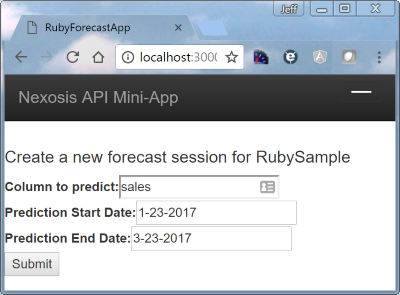
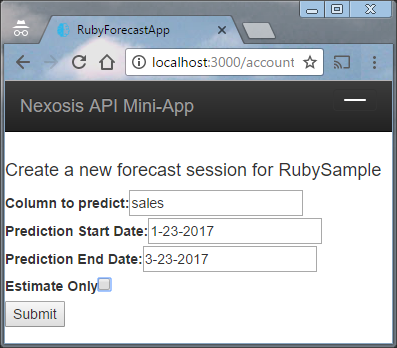
updated docs with estimation. fixed estimate bug

diff --git a/ruby-sample/ruby_forecast_app/app/controllers/account_controller.rb b/ruby-sample/ruby_forecast_app/app/controllers/account_controller.rb
@@ -53,7 +53,7 @@ class AccountController < ApplicationController
 		params.require(:target_column)
 		params.require(:start_date)
 		params.require(:end_date)
-		params.require(:is_estimate)
+		params.permit(:is_estimate)
 		client = ApiClient.new(Rails.application.secrets.api_key)
 		estimate_only = params["is_estimate"] == "on" ? true : false
 		begin
@@ -75,9 +75,10 @@ class AccountController < ApplicationController
 		params.require(:start_date)
 		params.require(:end_date)
 		params.require(:event_name)
-		params.require(:is_estimate)
+		params.permit(:is_estimate)
 		client = ApiClient.new(Rails.application.secrets.api_key)
 		estimate_only = params["is_estimate"] == "on" ? true : false
+		@event_name = params["event_name"]
 		begin
 			@impact_result = client.create_session params["dataset_name"], params["target_column"], params["start_date"], params["end_date"], estimate_only , params["event_name"], "impact"
 		rescue HttpException => http_error

diff --git a/ruby-sample/ruby_forecast_app/app/classes/api_client.rb b/ruby-sample/ruby_forecast_app/app/classes/api_client.rb
@@ -5,6 +5,7 @@ require 'csv'
 class ApiClient
 	include HTTParty
 	base_uri 'https://ml.nexosis.com/api'
+
 	def initialize(key)
 		@apiKey = key
 		@headers = {"api-key" => @apiKey, "content-type" => "application/json"}

diff --git a/ruby-sample/ruby_forecast_app/app/models/nexosis_api/impact_metric.rb b/ruby-sample/ruby_forecast_app/app/models/nexosis_api/impact_metric.rb
@@ -6,7 +6,7 @@ module NexosisApi
            end
         end
 
-        attr_accessor :pvalue
+        attr_accessor :pValue
         attr_accessor :absoluteEffect
         attr_accessor :relativeEffect
     end

diff --git a/ruby-sample/readme.md b/ruby-sample/readme.md
@@ -85,7 +85,16 @@ In the example above I have used the *Location C.csv* sample data file. You shou
 
 ![](docs/forecast_success.png)
 
-Having started off the session we can now see two new links - one to start over and request another session on the same dataset, and another to see the status of the session we've submitted. Sessions will take longer to run the first time you request them on a dataset because we run our algorithm selection process to determine how best to forecast your result. While we will run this again in the future to make sure we keep giving the best results, we will keep the selection around for a while, making subsequent sessions on the same dataset run much more quickly. 
+Having started off the session we can now see two new links - one to start over and request another session on the same dataset, and another to see the status of the session we've submitted. 
+#### Session Estimates
+You might have noticed the checkbox to "estimate" the forecast session in the screenshot above. If you want to figure out what something will cost before you do it, just send the "isEstimate=true" value in the query string of your request. In the case of our mini-app you'll see the value returned to you at the top of the page.
+
+![estimate](docs/estimate.png)
+
+Your values have been pre-filled, so if you're ready to go ahead just hit the submit button again.
+<hr/>
+Sessions will take longer to run the first time you request them on a dataset because we run our algorithm selection process to determine how best to forecast your result. While we will run this again in the future to make sure we keep giving the best results, we will keep the selection around for a while, making subsequent sessions on the same dataset run much more quickly. 
+
 >  If you submit data and run a session we will run the algorithm selection process every time.
 
 ![session status](docs/session_status.png)
@@ -207,7 +216,7 @@ While similar in most regards, there are a couple of differences to note about i
    "data removed" : "..."
 }
 ```
-The results above come from running an impact analysis on the transactions column of the Location C sample dataset from 5/1/2016-5/10/2016. 
+The results above come from running an impact analysis on the transactions column of the Location C sample dataset from 5/1/2016-5/10/2016. If you run these yourself you'll see the metrics on the results page of the session in the sample application.
 - **pValue**: Statistical value used to determine the significance of the impact. A small p-value indicates strong evidence of impact, whereas a p-value approaching 0.5 indicates weak evidence of impact. In the example above we have a ambiguous result - which is reasonable given that no known event actually occurred on the dates provided.
 - **absoluteEffect**: Total absolute effect of the event on the dataset. Answers the question, "How much did this event affect my dataset?" During the 10 days of this example impact run, transactions were postively impacted by a 446 transaction increase. This is a relatively strong impact - but again with an ambiguous meaning given the p-value.
 - **relativeEffect**: Percentage impact of the event on the dataset. Answers the question, "By what percentage did this event affect my dataset?". While closely related to the absolute effect, this is a percentage of the mean of all predictions created during an iterative process - not the strict percentage of the absolute against observed or predicted totals within the impact time slice. 
